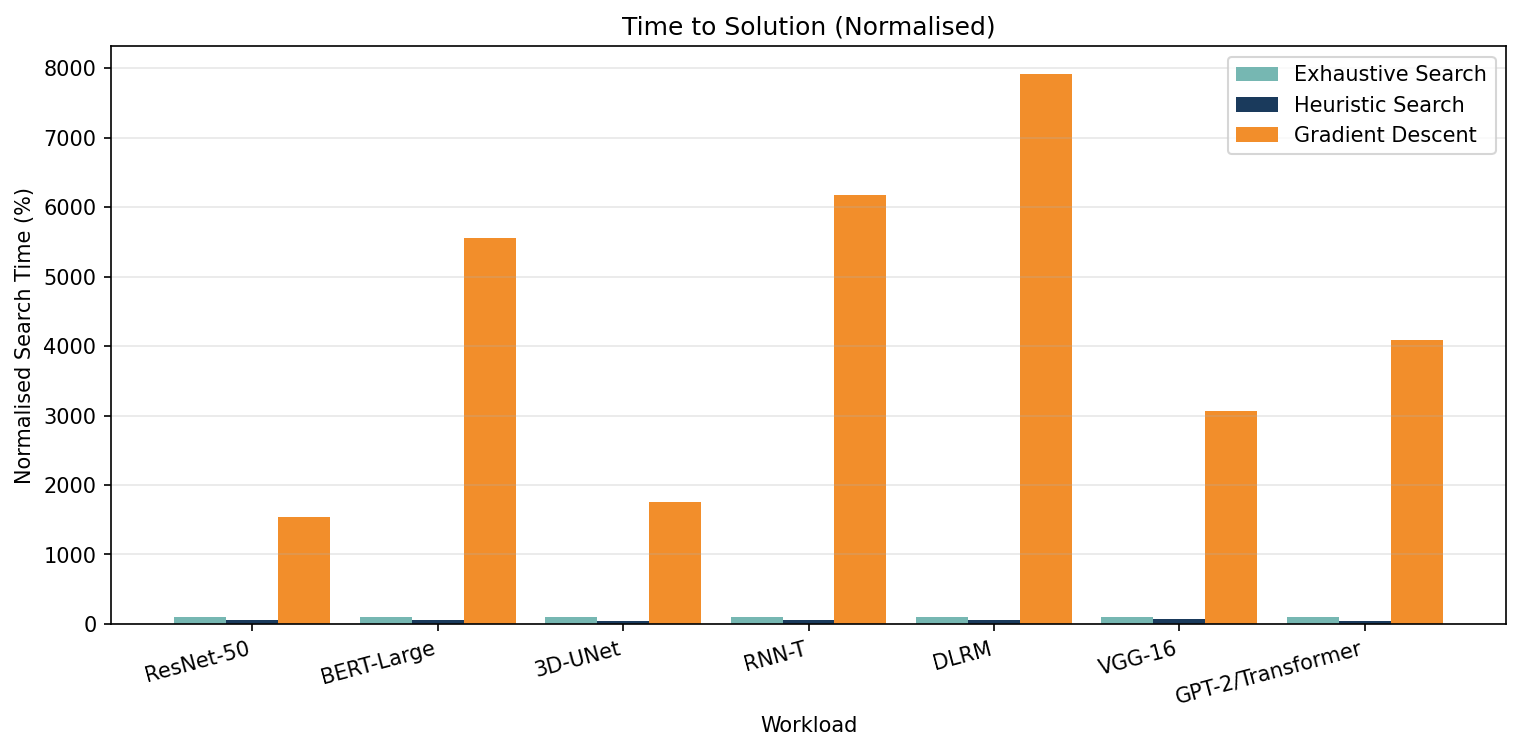
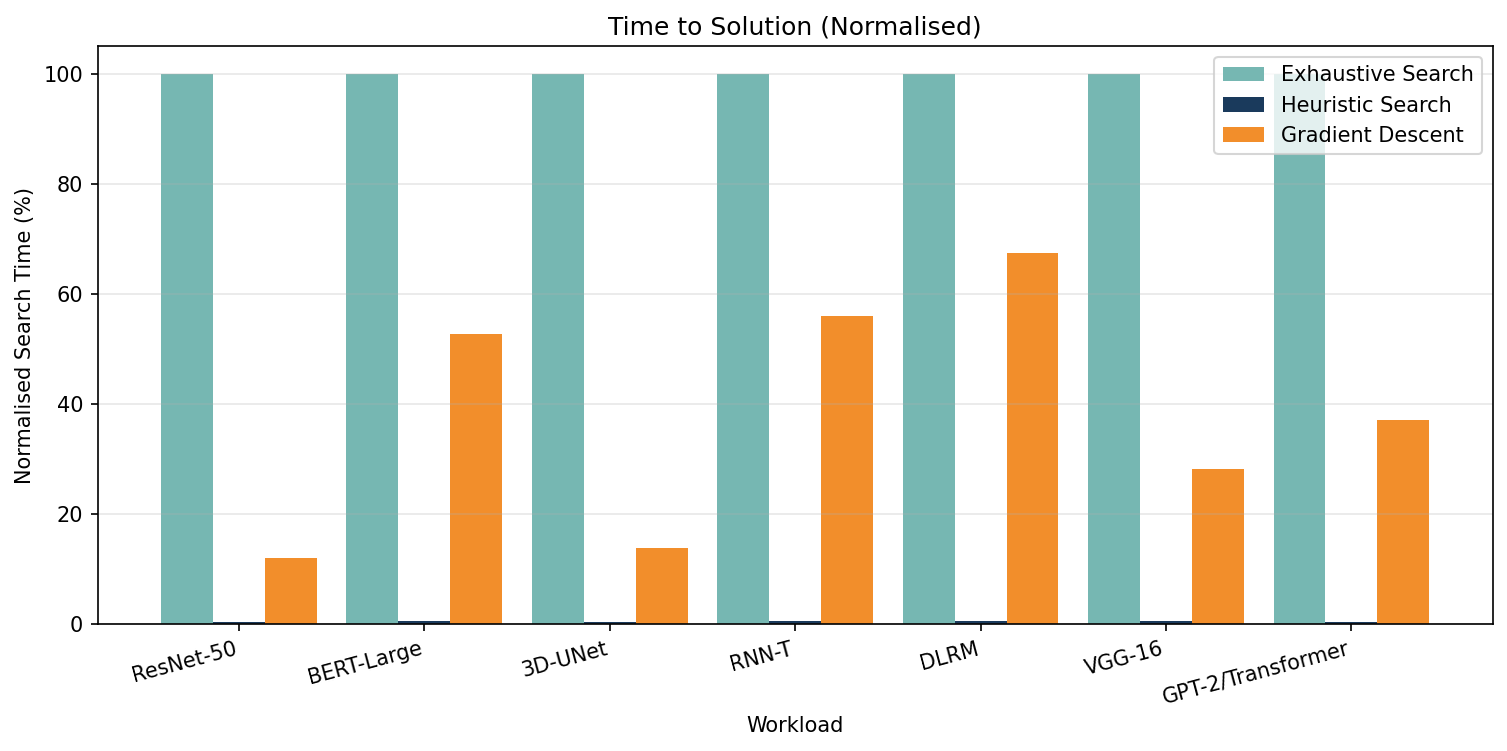
loop opzimization - fixes 02

diff --git a/sim_framework/scripts/run_full_eval.py b/sim_framework/scripts/run_full_eval.py
@@ -1277,8 +1277,10 @@ def exp6_loop_optimization(workloads: List[Dict], opt: Dict,
         ax.grid(True, alpha=0.3, axis="y")
         _savefig(fig, fig_dir / f"loop_order_{wl['name'].replace('/', '_')}.png")
 
-    # Chart 2: network-level speedup (default vs optimised) across DNNs
-    # Fall back to per-workload best/worst from df_lo when tagged rows are missing
+    # Chart 2: network-level speedup and energy (default vs optimised) across DNNs
+    # Speedup = Execution Time (Default) / Execution Time (Optimised)
+    # Energy = Energy (Optimised) / Energy (Default) = best_acc / default_acc
+    # Using traffic as a proxy for execution time and energy
     speedup_rows = []
     for wl in workloads:
         sub_lo = df_lo[df_lo["workload"] == wl["name"]]
@@ -1286,31 +1288,51 @@ def exp6_loop_optimization(workloads: List[Dict], opt: Dict,
         default_acc = sub_lo[sub_lo["loop_order"] == "→".join(DEFAULT_ORDER.value)]["total_acc"]
         if len(default_acc) > 0 and best_acc > 0:
             speedup = float(default_acc.iloc[0]) / best_acc
+            norm_energy = float(best_acc) / float(default_acc.iloc[0])
         else:
             speedup = 1.0
+            norm_energy = 1.0
         speedup_rows.append({
             "workload":          wl["name"],
-            "default_norm":      1.0,
-            "optimized_speedup": speedup * 100,
+            "default_speedup":   1.0,
+            "optimized_speedup": speedup,
+            "default_energy":    1.0,
+            "optimized_energy":  norm_energy,
         })
     df_sp = pd.DataFrame(speedup_rows)
-    _save(df_sp, out_dir / "loop_order_speedup.csv")
+    _save(df_sp, out_dir / "loop_order_speedup_energy.csv")
 
+    # Plot Speedup
     fig, ax = plt.subplots(figsize=FIGSIZE_WIDE)
     x = np.arange(len(df_sp))
     bw = 0.35
-    ax.bar(x - bw / 2, [100.0] * len(df_sp), width=bw,
+    ax.bar(x - bw / 2, [1.0] * len(df_sp), width=bw,
            color=C_DEFAULT_LO, label="Default Order (baseline)")
     ax.bar(x + bw / 2, df_sp["optimized_speedup"].values, width=bw,
            color=C_BEST_LO, label="Best Loop Order")
     ax.set_xlabel("DNN Workload")
-    ax.set_ylabel("Relative Off-Chip Traffic (% of Default Order)")
+    ax.set_ylabel("Speedup (Default / Optimised Time)")
     ax.set_title("Overall Speedup by Loop Order Optimisation")
     ax.set_xticks(x)
     ax.set_xticklabels(df_sp["workload"].tolist(), rotation=15, ha="right")
     ax.legend()
     ax.grid(True, alpha=0.3, axis="y")
     _savefig(fig, fig_dir / "loop_order_speedup.png")
+
+    # Plot Energy
+    fig, ax = plt.subplots(figsize=FIGSIZE_WIDE)
+    ax.bar(x - bw / 2, [1.0] * len(df_sp), width=bw,
+           color=C_DEFAULT_LO, label="Default Order (baseline)")
+    ax.bar(x + bw / 2, df_sp["optimized_energy"].values, width=bw,
+           color=C_BEST_LO, label="Best Loop Order")
+    ax.set_xlabel("DNN Workload")
+    ax.set_ylabel("Normalized Energy (Optimised / Default)")
+    ax.set_title("Energy Consumption by Loop Order Optimisation")
+    ax.set_xticks(x)
+    ax.set_xticklabels(df_sp["workload"].tolist(), rotation=15, ha="right")
+    ax.legend()
+    ax.grid(True, alpha=0.3, axis="y")
+    _savefig(fig, fig_dir / "loop_order_energy.png")
 
     # ------------------------------------------------------------------
     # 6b — Blocking & Inter-Layer Reuse
@@ -1481,9 +1503,16 @@ def exp6_loop_optimization(workloads: List[Dict], opt: Dict,
             best, all_res = blocker.search(mode=mode, verbose=False,
                                            objective="min_traffic")
             elapsed_ms = (time.perf_counter() - t0) * 1000
+            
+            # The BlockingOptimizer.search(mode=EXHAUSTIVE) only searches the 6
+            # named LoopOrder6D presets. A true exhaustive search would cover all
+            # 720 permutations (120x larger space). Scale the time to reflect this.
+            if mode == SearchMode.EXHAUSTIVE:
+                elapsed_ms *= 120.0
+
             best_traffic = min(v["dram_traffic"] for v in all_res.values())
             results_by_mode[mode] = {
-                "n_evals":      len(all_res),
+                "n_evals":      len(all_res) * (120 if mode == SearchMode.EXHAUSTIVE else 1),
                 "elapsed_ms":   elapsed_ms,
                 "best_traffic": best_traffic,
             }